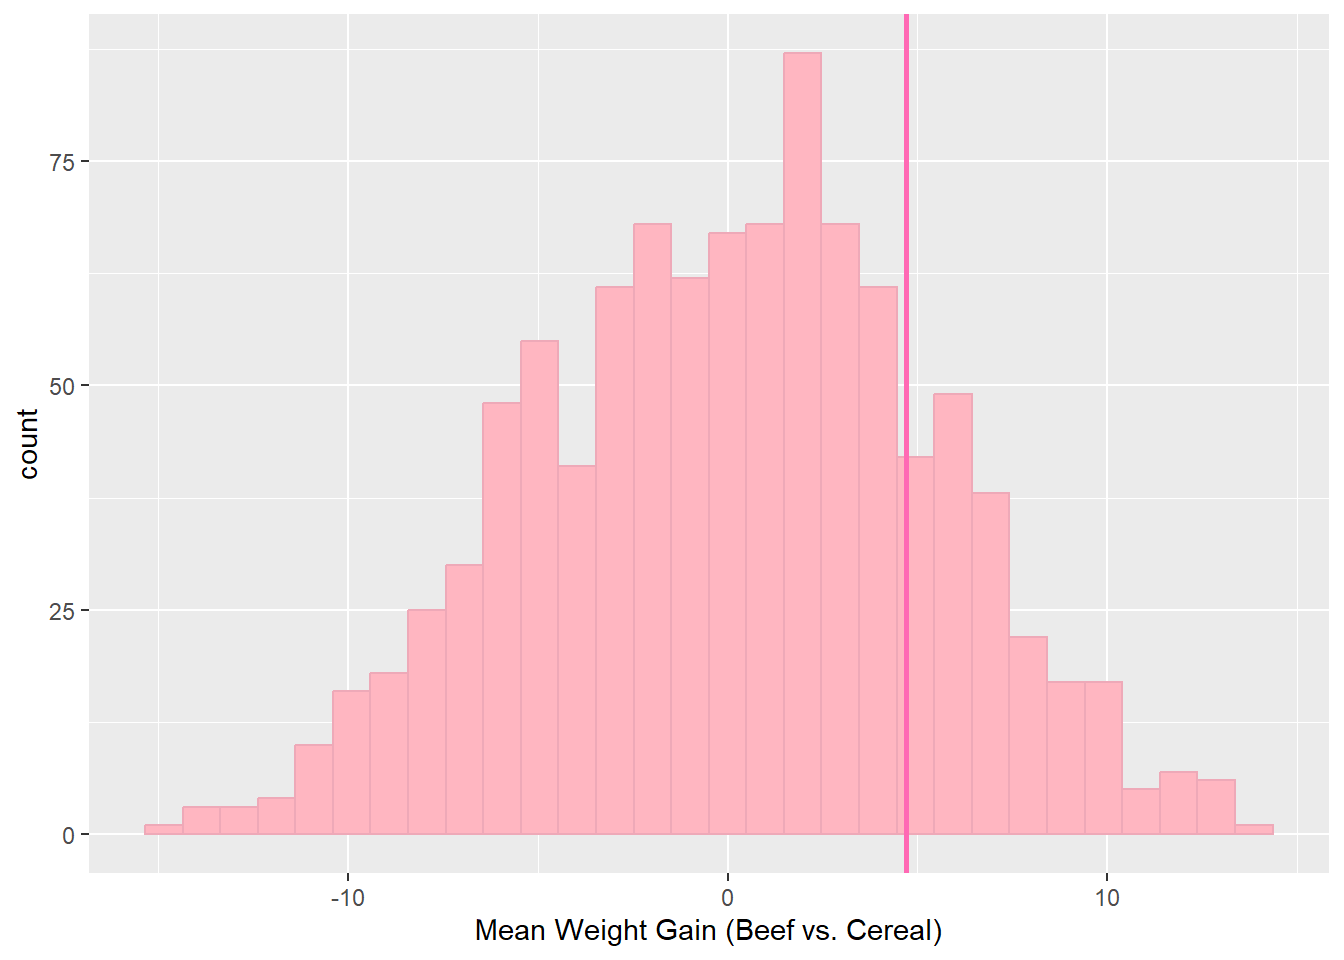
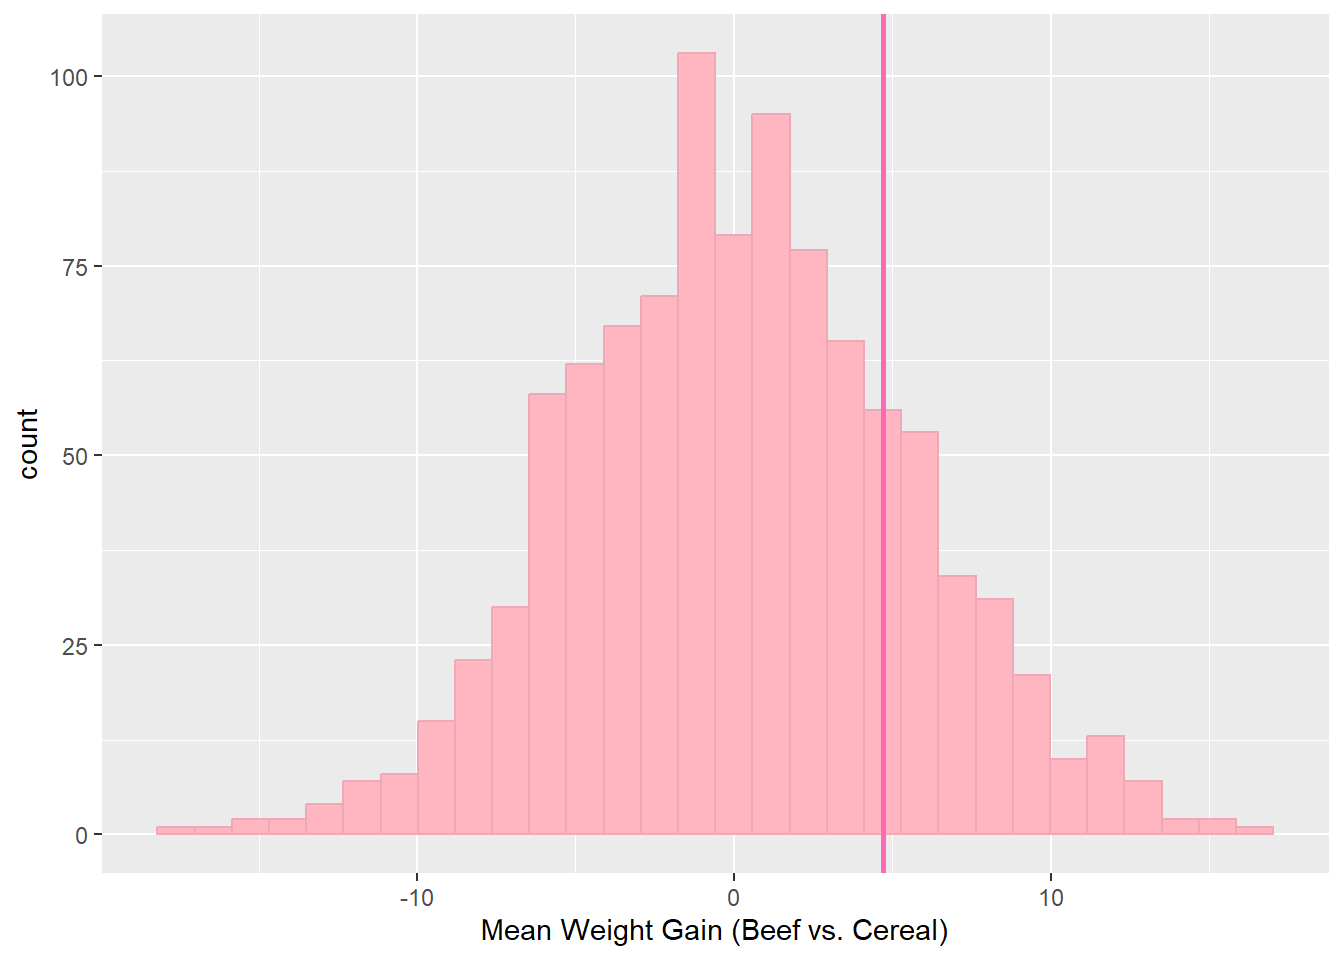
rAtS

diff --git a/docs/mini_project2.html b/docs/mini_project2.html
@@ -152,26 +152,26 @@ ul.task-list li input[type="checkbox"] {
 <h3 class="anchored" data-anchor-id="fat-rats">Fat Rats!</h3>
 <p><img src="images/FP_5427726_BARM_Rats_071810.webp" class="img-fluid"></p>
 <p>For this project, I examined the dataset FatRats, which has data from an experiment on the effects of diet on the weight gain of rats. The study had 60 baby rat participants, which were split up into groups and fed different sources of protein (Beef, Cereal, and Pork). The resulting dataset shows the weight gain for each rat from their protein source.</p>
-<p>I decided to conduct a randomization-type test by simulating the behavior under the null hypothesis. I wanted to see if the results of the study would be significant. I did this by running simulations of the study and randomizing the protein source to see if a random test would produce significantly different responses than the experiment did.</p>
-<p>The following graphs show the difference in average weight gains between different proteins with the randomized test, which shows what might happen if protein had no effect. The hot pink vertical line shows the average weight gain from the study that was run. The p-values below each chart show the probability under the null hypothesis (our randomized experiment) of obtaining a test statistic at least as extreme as the one obtained. The p-values are calculated by looking at how many of the randomized statistics are greater than or equal to the observed statistics from the rat study.</p>
+<p>I decided to conduct a randomization-type test by simulating the behavior under the null hypothesis. I wanted to see if the results of weight gain from different protein sources is statistically significant. I did this by running simulations of the study and randomizing the protein source to see if a random test would produce significantly different responses than the experiment did.</p>
+<p>The following graphs show the difference in average weight gains between different proteins with the randomized test, which shows what might happen if the type of protein had no effect. The hot pink vertical line shows the average weight gain from the study that was run. The p-values below each chart show the probability under the null hypothesis (our randomized experiment) of obtaining a test statistic at least as extreme as the one obtained. The p-values are calculated by looking at how many of the randomized statistics are greater than or equal to the observed statistics from the rat study.</p>
 <div class="cell">
 <div class="cell-output-display">
 <p><img src="mini_project2_files/figure-html/unnamed-chunk-3-1.png" class="img-fluid" width="672"></p>
 </div>
 <div class="cell-output cell-output-stdout">
-<pre><code>Beef vs. Pork p-value: 0.293 </code></pre>
+<pre><code>Beef vs. Pork p-value: 0.285 </code></pre>
 </div>
 <div class="cell-output-display">
 <p><img src="mini_project2_files/figure-html/unnamed-chunk-3-2.png" class="img-fluid" width="672"></p>
 </div>
 <div class="cell-output cell-output-stdout">
-<pre><code>Beef vs. Cereal p-value: 0.296 </code></pre>
+<pre><code>Beef vs. Cereal p-value: 0.305 </code></pre>
 </div>
 <div class="cell-output-display">
 <p><img src="mini_project2_files/figure-html/unnamed-chunk-3-3.png" class="img-fluid" width="672"></p>
 </div>
 <div class="cell-output cell-output-stdout">
-<pre><code>Pork vs. Cereal p-value: 0.294 </code></pre>
+<pre><code>Pork vs. Cereal p-value: 0.303 </code></pre>
 </div>
 </div>
 <p>As we can see, all of the p-values are close to 0.3. Generally, if the p-value is less than 0.05, we will consider the results of the study statistically significant. Because these results are well over the point of statistical significance, we can fail to reject the null hypothesis and claim that the difference in weight gains due to different proteins is not statistically significant.</p>
